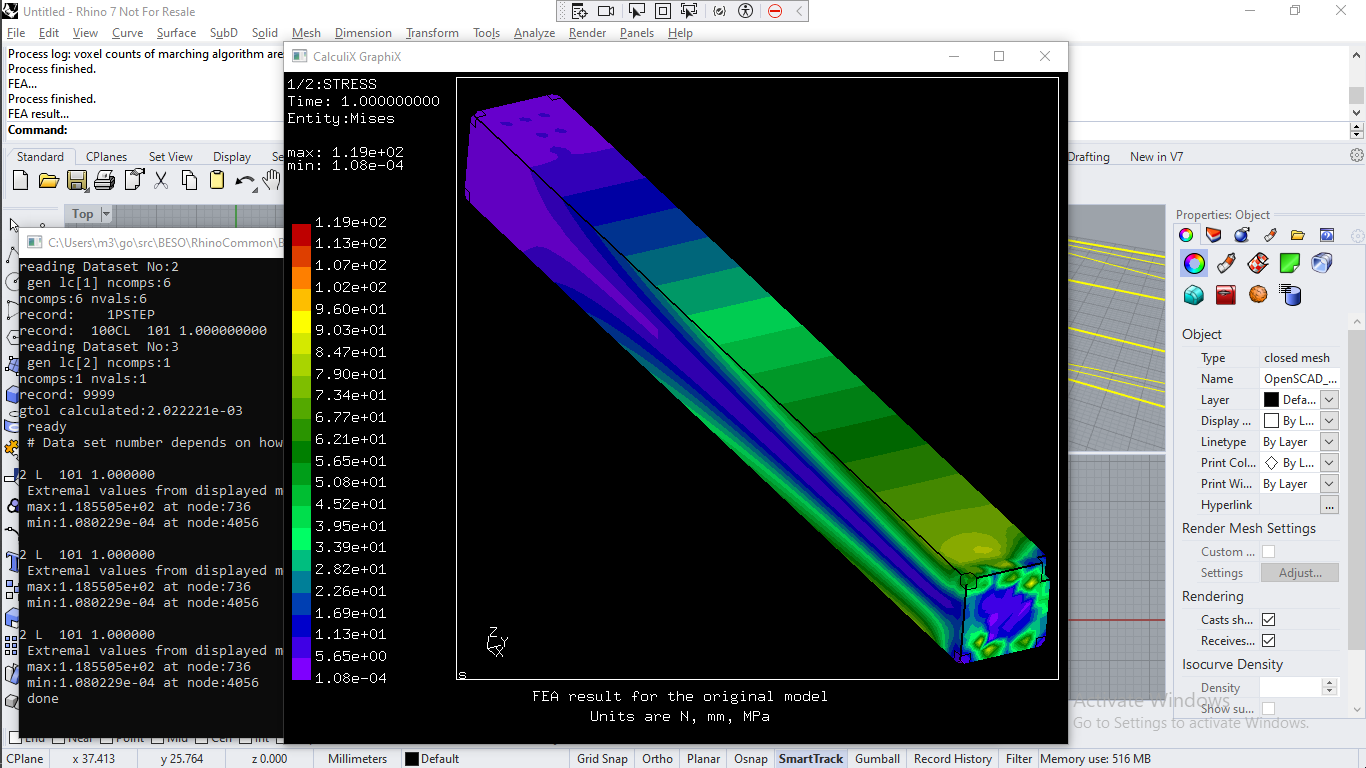
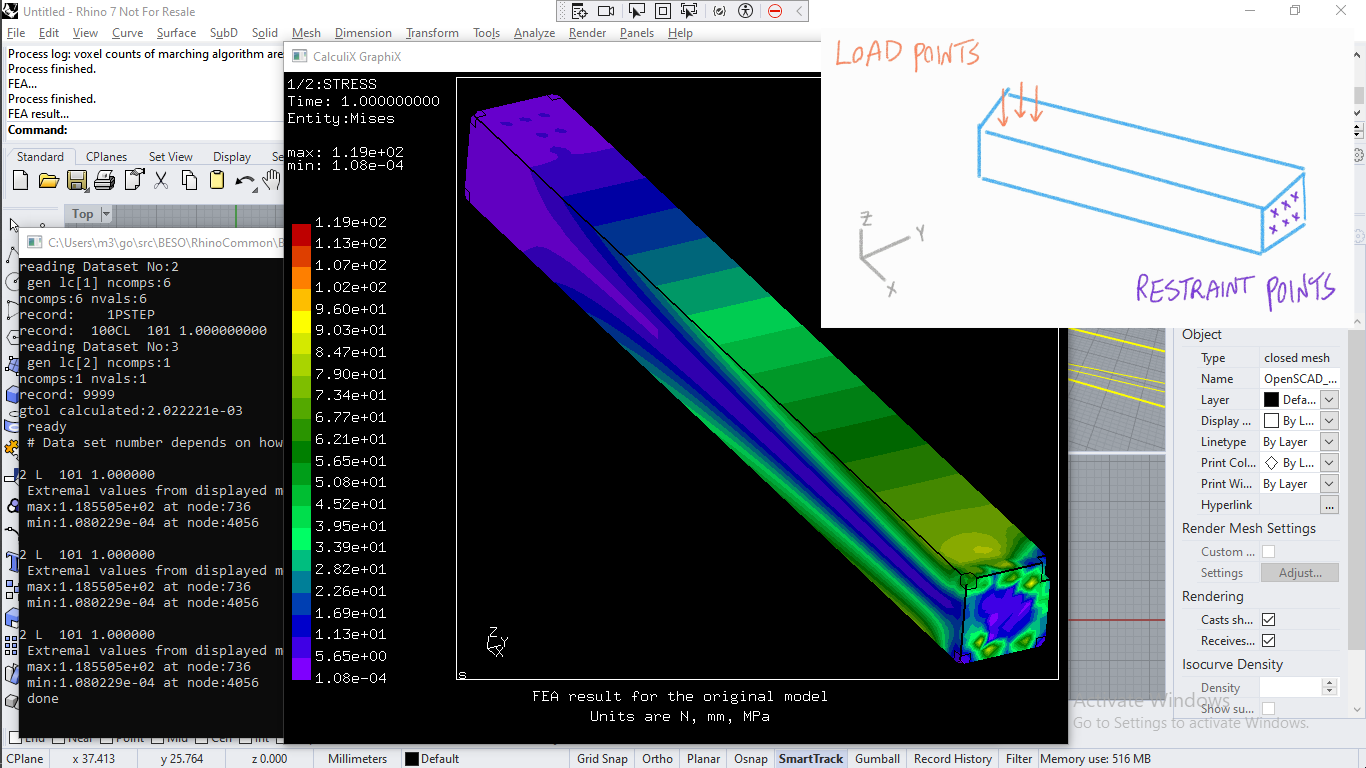
Screenshot + schematic

Changed region(s): [[0.5842, 0.0312, 0.9839, 0.4375]]

diff --git a/README.md b/README.md
@@ -21,8 +21,6 @@ A future video will demonstrate how to use the plugin commands after installatio
 
 ## Screenshots
 
-![Schematic for the original model](RhinoCommon/doc/FEA%20schematic.jpg "Schematic for the original model")
-
 ![FEA result for the original model](RhinoCommon/doc/FEA.png "FEA result for the original model")
 
 # Why this plugin?
